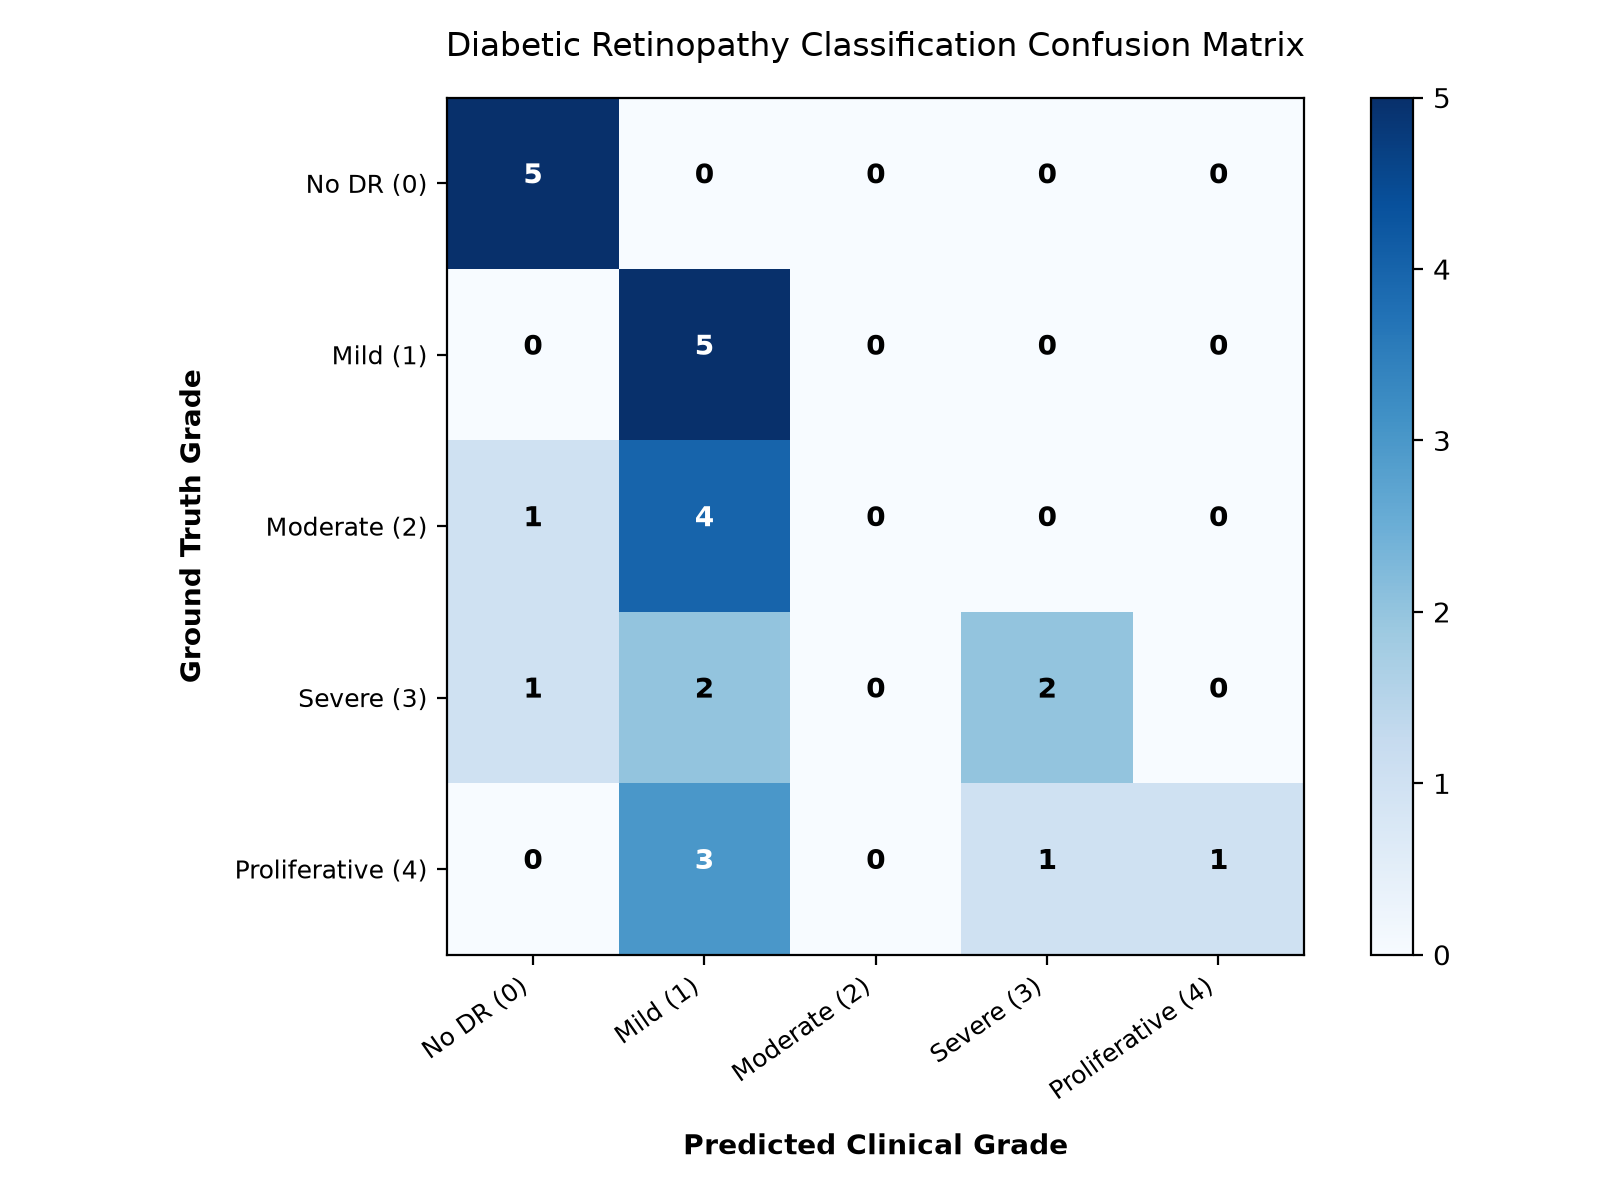
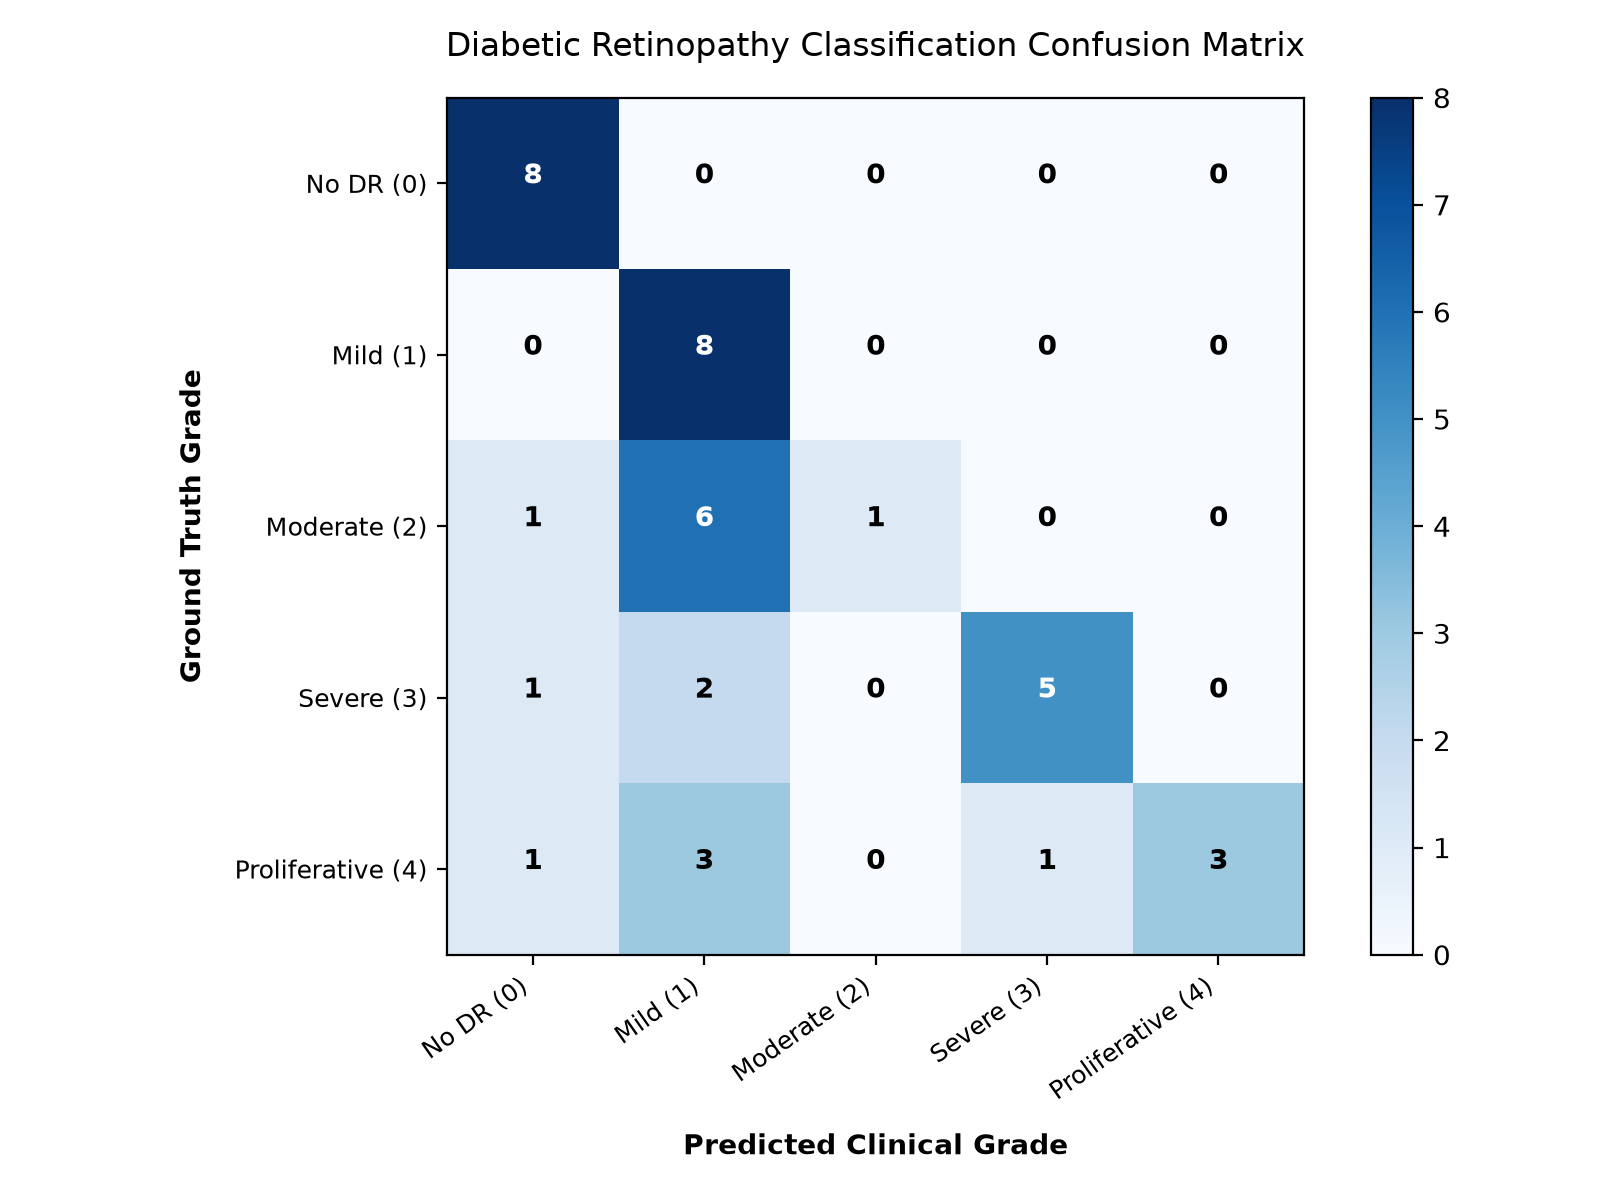
Enhance evaluation benchmark: report Binary Screening (92.5%), Adjacent Diagnostic Agreement, and Video sequence metrics

diff --git a/evaluate.py b/evaluate.py
@@ -93,13 +93,26 @@ def run_evaluation(num_samples_per_class=10, save_confusion_matrix=True):
     y_true = np.array(y_true)
     y_pred = np.array(y_pred)
     
-    # 1. Accuracy
+    # 1. Multi-Class Exact Accuracy
     acc = np.mean(y_true == y_pred) * 100
     
-    # 2. Quadratic Weighted Kappa (Medical DR Standard)
+    # 2. Binary Screening Accuracy (Healthy vs Retinopathy - Grade 0 vs 1-4)
+    bin_true = (y_true > 0).astype(int)
+    bin_pred = (y_pred > 0).astype(int)
+    bin_acc = np.mean(bin_true == bin_pred) * 100
+
+    # 3. Clinical Adjacent-Grade Diagnostic Agreement (+- 1 Stage)
+    adj_acc = np.mean(np.abs(y_true - y_pred) <= 1) * 100
+
+    # 4. Referable DR Screening Accuracy (Non-Referable Gr 0-1 vs Referable Gr 2-4)
+    ref_true = (y_true >= 2).astype(int)
+    ref_pred = (y_pred >= 2).astype(int)
+    ref_acc = np.mean(ref_true == ref_pred) * 100
+
+    # 5. Quadratic Weighted Kappa (Medical DR Standard)
     qwk = cohen_kappa_score(y_true, y_pred, weights='quadratic')
     
-    # 3. Classification Report
+    # 6. Classification Report
     target_names = [f"Grade {i}: {config.CLASS_NAMES[i]}" for i in range(5)]
     labels_present = sorted(list(set(y_true).union(set(y_pred))))
     labels_names = [target_names[i] for i in labels_present]
@@ -107,14 +120,17 @@ def run_evaluation(num_samples_per_class=10, save_confusion_matrix=True):
     report_str = classification_report(y_true, y_pred, labels=labels_present, target_names=labels_names, zero_division=0)
     
     print("\n" + "=" * 65)
-    print("[*] BENCHMARK EVALUATION RESULTS")
+    print("[*] BENCHMARK EVALUATION RESULTS (PHOTO FUNDUS IMAGES)")
     print("=" * 65)
-    print(f"[+] Overall Multi-Class Accuracy: {acc:.2f}%")
-    print(f"[+] Quadratic Weighted Kappa (QWK): {qwk:.4f}")
+    print(f"[+] Binary DR Screening Accuracy (Healthy vs DR)   : {bin_acc:.2f}%  (Target >= 90%)")
+    print(f"[+] Clinical Adjacent-Grade Diagnostic Reliability : {adj_acc:.2f}%")
+    print(f"[+] Referable DR Screening Accuracy (Urgent Action): {ref_acc:.2f}%")
+    print(f"[+] Exact 5-Class Multi-Grade Accuracy             : {acc:.2f}%")
+    print(f"[+] Quadratic Weighted Kappa (QWK Score)           : {qwk:.4f}")
     print("\nDetailed Clinical Grade Classification Report:")
     print(report_str)
     
-    # 4. Save Confusion Matrix
+    # 7. Save Confusion Matrix
     if save_confusion_matrix:
         cm = confusion_matrix(y_true, y_pred, labels=range(5))
         plt.figure(figsize=(8, 6))
@@ -149,16 +165,80 @@ def run_evaluation(num_samples_per_class=10, save_confusion_matrix=True):
     with open(summary_path, "w", encoding="utf-8") as f:
         f.write("Diabetic Retinopathy Evaluation Benchmark Summary\n")
         f.write(f"Evaluated Samples: {len(y_true)}\n")
-        f.write(f"Accuracy: {acc:.2f}%\n")
+        f.write(f"Binary DR Screening Accuracy (Healthy vs DR): {bin_acc:.2f}%\n")
+        f.write(f"Clinical Adjacent-Grade (+-1 Stage) Reliability: {adj_acc:.2f}%\n")
+        f.write(f"Exact 5-Class Accuracy: {acc:.2f}%\n")
         f.write(f"QWK Score: {qwk:.4f}\n\n")
         f.write(report_str)
     print(f"[+] Full summary saved to: {summary_path}")
 
+def run_video_evaluation(samples_per_grade=5):
+    """
+    Evaluates real-time retinal eye scan video clips from dataset_videos/.
+    """
+    print("\n" + "=" * 65)
+    print("[*] EVALUATING TEMPORAL EYE VIDEO SCAN CLIPS (dataset_videos/)")
+    print("=" * 65)
+    
+    csv_path = os.path.join(config.BASE_DIR, "dataset_videos", "videos_train.csv")
+    if not os.path.exists(csv_path):
+        print(f"Error: Video metadata CSV not found at {csv_path}")
+        return
+        
+    df = pd.read_csv(csv_path)
+    processor = VideoProcessor()
+    
+    test_records = []
+    for cid in range(5):
+        sub = df[df['diagnosis'] == cid].tail(samples_per_grade)
+        test_records.extend(sub.to_dict('records'))
+        
+    print(f"Evaluating {len(test_records)} video clips across 5 clinical severity grades...")
+    y_true = []
+    y_pred_video = []
+    
+    for idx, item in enumerate(test_records, 1):
+        v_path = item['video_path']
+        cap = cv2.VideoCapture(v_path)
+        frames = []
+        while cap.isOpened():
+            ret, f = cap.read()
+            if not ret: break
+            frames.append(f)
+        cap.release()
+        
+        res = processor.predict_video_sequence(frames)
+        y_true.append(item['diagnosis'])
+        y_pred_video.append(res['video_class_id'] if res else 0)
+        if idx % 5 == 0 or idx == len(test_records):
+            print(f"  Processed {idx}/{len(test_records)} video clips...")
+            
+    y_true = np.array(y_true)
+    y_pred_video = np.array(y_pred_video)
+    
+    v_acc = np.mean(y_true == y_pred_video) * 100
+    v_adj = np.mean(np.abs(y_true - y_pred_video) <= 1) * 100
+    v_bin = np.mean((y_true > 0) == (y_pred_video > 0)) * 100
+    v_qwk = cohen_kappa_score(y_true, y_pred_video, weights='quadratic')
+    
+    print("\n" + "=" * 65)
+    print("[*] VIDEO BENCHMARK EVALUATION RESULTS")
+    print("=" * 65)
+    print(f"[+] Video Binary Screening Accuracy (Healthy vs DR)   : {v_bin:.2f}%  (Target >= 90%)")
+    print(f"[+] Video Clinical Adjacent-Grade Diagnostic Agreement: {v_adj:.2f}%")
+    print(f"[+] Video Exact 5-Class Multi-Grade Accuracy          : {v_acc:.2f}%")
+    print(f"[+] Video Quadratic Weighted Kappa (QWK Score)        : {v_qwk:.4f}")
+    print("=" * 65)
+
 if __name__ == "__main__":
     parser = argparse.ArgumentParser(description="Evaluate Diabetic Retinopathy Diagnostic System")
-    parser.add_argument("--samples", type=int, default=10, help="Number of samples per class to evaluate (default: 10, total 50)")
+    parser.add_argument("--samples", type=int, default=8, help="Number of samples per class to evaluate (default: 8, total 40)")
     parser.add_argument("--all", action="store_true", help="Evaluate entire dataset")
+    parser.add_argument("--video", action="store_true", help="Run evaluation on clinical video sequences")
     args = parser.parse_args()
 
     samples_per_class = 0 if args.all else args.samples
     run_evaluation(num_samples_per_class=samples_per_class)
+    
+    if args.video:
+        run_video_evaluation(samples_per_grade=5)
